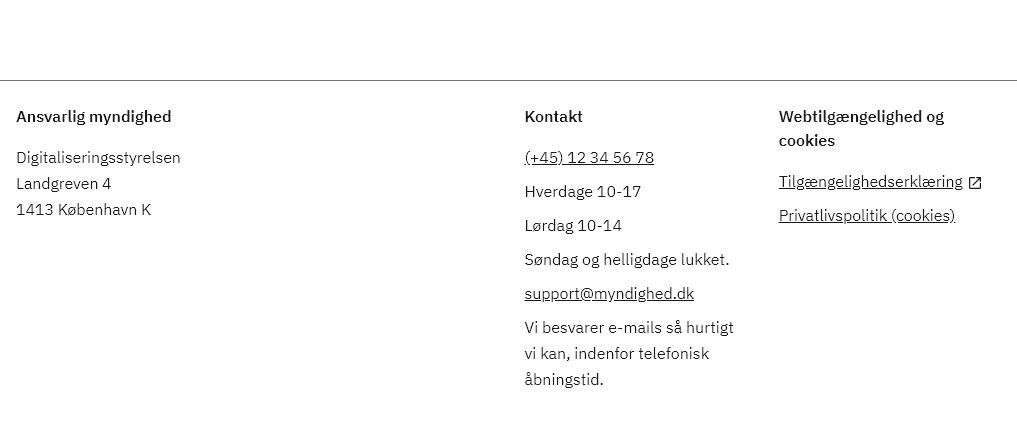
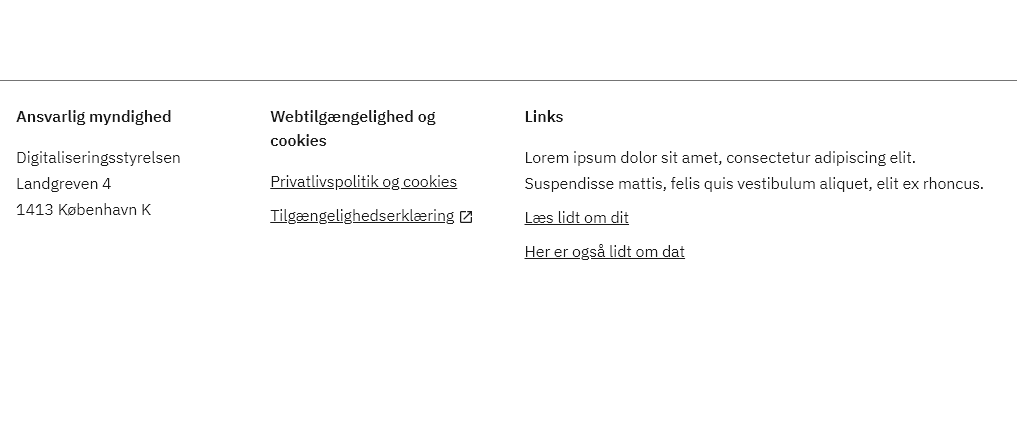
Update footer

diff --git a/_includes/code/components/footer-three-columns.html b/_includes/code/components/footer-three-columns.html
@@ -5,37 +5,14 @@
                 <div class="col-12 col-sm-12 col-md-3 footer-col ">
                     <section>
                         <div class=" align-text-left ">
-                            <h1 class="h5 mb-4" title="Ansvarlig myndighed"
-                                aria-label="Ansvarlig myndighed">Ansvarlig
-                                myndighed</h1>
+                            <h2 class="h5 mb-4">Ansvarlig myndighed</h2>
 
                             <ul class=" unstyled-list">
 
                                 <li class="">
-                                    <p>Digitaliseringsstyrelsen</p>
+                                    <p>Digitaliseringsstyrelsen<br />Landgreven 4<br/>1413 København K
+                                    </p>
                                 </li>
-
-                                <li class="">
-                                    <p>Landgreven 4</p>
-                                </li>
-
-                                <li class="">
-                                    <p>1413 København K</p>
-                                </li>
-
-                            </ul>
-
-                        </div>
-                    </section>
-                </div>
-                <div
-                    class="col-12 col-sm-12 col-md-3 footer-col d-print-none">
-                    <section>
-                        <div class=" align-text-left ">
-
-                            <ul class=" unstyled-list">
-
-                                <li class=""></li>
 
                             </ul>
 
@@ -45,34 +22,17 @@
                 <div class="col-12 col-sm-12 col-md-3 footer-col ">
                     <section>
                         <div class=" align-text-left ">
-                            <h1 class="h5 mb-4" title="Kontakt"
-                                aria-label="Kontakt">Kontakt</h1>
+                            <h2 class="h5 mb-4">Webtilgængelighed og
+                                cookies</h2>
 
                             <ul class=" mt-0 nobullet-list">
 
-                                <li class="">
-                                    <p class="mb-3"><a
-                                            class="function-link"
-                                            href="tel:004512345678">(+45)
-                                            12 34 56 78</a></p>
-                                </li>
+                                <li class=""><a href="#"
+                                        class="function-link">Privatlivspolitik
+                                        og cookies</a></li>
 
-                                <li class="">Hverdage 10-17</li>
-
-                                <li class="">Lørdag 10-14</li>
-
-                                <li class="">Søndag og helligdage lukket.
-                                </li>
-
-                                <li class="">
-                                    <p class="mt-3 mb-3"><a
-                                            class="function-link"
-                                            href="mailto:support@myndighed.dk">support@myndighed.dk</a>
-                                    </p>
-                                </li>
-
-                                <li class="">Vi besvarer e-mails så hurtigt
-                                    vi kan, indenfor telefonisk åbningstid.
+                                <li class=""><a href="#"
+                                        class="function-link icon-link">Tilgængelighedserklæring<svg class="icon-svg" focusable="false" aria-hidden="true"><use xlink:href="#open-in-new"></use></svg></a>
                                 </li>
 
                             </ul>
@@ -81,23 +41,24 @@
                     </section>
                 </div>
                 <div
-                    class="col-12 col-sm-12 col-md-3 footer-col d-print-none">
+                    class="col-12 col-sm-12 col-md-6 footer-col d-print-none">
                     <section>
                         <div class=" align-text-left ">
-                            <h1 class="h5 mb-4"
-                                title="Webtilgængelighed og cookies"
-                                aria-label="Webtilgængelighed og cookies">
-                                Webtilgængelighed og cookies</h1>
+                            <h2 class="h5 mb-4">Links</h2>
+                            <p>Lorem ipsum dolor sit amet, consectetur
+                                adipiscing elit. Suspendisse mattis, felis
+                                quis vestibulum aliquet, elit ex rhoncus.
+                            </p>
 
                             <ul class=" mt-0 nobullet-list">
 
                                 <li class=""><a href="#"
-                                        class="function-link icon-link">Tilgængelighedserklæring<svg class="icon-svg" focusable=">false" aria-hidden="true"><use xlink:href="#open-in-new"></use></svg></a>
-                                </li>
+                                        class="function-link">Læs lidt om
+                                        dit</a></li>
 
-                                <li class=""><a class="function-link"
-                                        href="#">Privatlivspolitik
-                                        (cookies)</a></li>
+                                <li class=""><a href="#"
+                                        class="function-link">Her er også
+                                        lidt om dat</a></li>
 
                             </ul>
 

diff --git a/_includes/code/components/footer-logo.html b/_includes/code/components/footer-logo.html
@@ -5,9 +5,7 @@
                 <div class="col-12 col-sm-12 col-md-3 footer-col ">
                     <section>
                         <div class=" align-text-left ">
-                            <h1 class="h5 mb-4" title="Ansvarlig myndighed"
-                                aria-label="Ansvarlig myndighed">Ansvarlig
-                                myndighed</h1>
+                            <h2 class="h5 mb-4">Ansvarlig myndighed</h2>
 
                             <ul class=" unstyled-list">
 
@@ -22,8 +20,7 @@
                 <div class="col-12 col-sm-12 col-md-3 footer-col ">
                     <section>
                         <div class=" align-text-left ">
-                            <h1 class="h5 mb-4" title="Kontakt"
-                                aria-label="Kontakt">Kontakt</h1>
+                            <h2 class="h5 mb-4">Kontakt</h2>
 
                             <ul class=" mt-0 nobullet-list">
 
@@ -44,8 +41,7 @@
                     class="col-12 col-sm-12 col-md-3 footer-col d-print-none">
                     <section>
                         <div class=" align-text-left ">
-                            <h1 class="h5 mb-4" title="Links"
-                                aria-label="Links">Links</h1>
+                            <h2 class="h5 mb-4">Links</h2>
 
                             <ul class=" mt-0 nobullet-list">
 
@@ -73,10 +69,8 @@
                     class="col-12 col-sm-12 col-md-3 footer-col d-print-none">
                     <section>
                         <div class=" align-text-left ">
-                            <h1 class="h5 mb-4"
-                                title="Webtilgængelighed og cookies"
-                                aria-label="Webtilgængelighed og cookies">
-                                Webtilgængelighed og cookies</h1>
+                            <h2 class="h5 mb-4">Webtilgængelighed og
+                                cookies</h2>
 
                             <ul class=" mt-0 nobullet-list">
 

diff --git a/_includes/code/components/footer-four-columns-language.html b/_includes/code/components/footer-four-columns-language.html
@@ -5,7 +5,7 @@
                 <div class="col-12 col-sm-12 col-md-3 footer-col ">
                     <section>
                         <div class=" align-text-left ">
-                            <h1 class="h5 mb-4">Ansvarlig myndighed</h1>
+                            <h2 class="h5 mb-4">Ansvarlig myndighed</h2>
 
                             <ul class=" unstyled-list">
 
@@ -29,7 +29,7 @@
                 <div class="col-12 col-sm-12 col-md-3 footer-col ">
                     <section>
                         <div class=" align-text-left ">
-                            <h1 class="h5 mb-4">Kontakt</h1>
+                            <h2 class="h5 mb-4">Kontakt</h2>
 
                             <ul class=" mt-0 nobullet-list">
 
@@ -50,7 +50,7 @@
                     class="col-12 col-sm-12 col-md-3 footer-col d-print-none">
                     <section>
                         <div class=" align-text-left ">
-                            <h1 class="h5 mb-4">Links</h1>
+                            <h2 class="h5 mb-4">Links</h2>
 
                             <ul class=" mt-0 nobullet-list">
 
@@ -76,8 +76,8 @@
                     class="col-12 col-sm-12 col-md-3 footer-col d-print-none">
                     <section>
                         <div class=" align-text-left ">
-                            <h1 class="h5 mb-4">Webtilgængelighed og
-                                cookies</h1>
+                            <h2 class="h5 mb-4">Webtilgængelighed og
+                                cookies</h2>
 
                             <ul class=" mt-0 nobullet-list">
 

diff --git a/_includes/code/components/footer-complex.html b/_includes/code/components/footer-complex.html
@@ -6,7 +6,7 @@
                     class="col-12 col-sm-12 col-md-3 footer-col  d-print-none">
                     <section>
                         <div class=" align-text-left ">
-                            <h1 class="h5 mb-4">Links</h1>
+                            <h2 class="h5 mb-4">Links</h2>
 
                             <ul class=" mt-0 mb-0 nobullet-list">
 
@@ -32,7 +32,7 @@
                     class="col-12 col-sm-12 col-md-3 footer-col  d-print-none">
                     <section>
                         <div class=" align-text-left ">
-                            <h1 class="h5 mb-4">Links</h1>
+                            <h2 class="h5 mb-4">Links</h2>
 
                             <ul class=" mt-0 mb-0 nobullet-list">
 
@@ -58,7 +58,7 @@
                     class="col-12 col-sm-12 col-md-3 footer-col  d-print-none">
                     <section>
                         <div class=" align-text-left ">
-                            <h1 class="h5 mb-4">Links</h1>
+                            <h2 class="h5 mb-4">Links</h2>
 
                             <ul class=" mt-0 mb-0 nobullet-list">
 
@@ -84,7 +84,7 @@
                     class="col-12 col-sm-12 col-md-3 footer-col  d-print-none">
                     <section>
                         <div class=" align-text-left ">
-                            <h1 class="h5 mb-4">Links</h1>
+                            <h2 class="h5 mb-4">Links</h2>
 
                             <ul class=" mt-0 mb-0 nobullet-list">
 

diff --git a/_includes/code/components/footer-four-columns.html b/_includes/code/components/footer-four-columns.html
@@ -5,7 +5,7 @@
                 <div class="col-12 col-sm-12 col-md-3 footer-col ">
                     <section>
                         <div class=" align-text-left ">
-                            <h1 class="h5 mb-4">Ansvarlig myndighed</h1>
+                            <h2 class="h5 mb-4">Ansvarlig myndighed</h2>
 
                             <ul class=" unstyled-list">
 
@@ -29,7 +29,7 @@
                 <div class="col-12 col-sm-12 col-md-3 footer-col ">
                     <section>
                         <div class=" align-text-left ">
-                            <h1 class="h5 mb-4">Kontakt</h1>
+                            <h2 class="h5 mb-4">Kontakt</h2>
 
                             <ul class=" mt-0 nobullet-list">
 
@@ -50,7 +50,7 @@
                     class="col-12 col-sm-12 col-md-3 footer-col d-print-none">
                     <section>
                         <div class=" align-text-left ">
-                            <h1 class="h5 mb-4">Links</h1>
+                            <h2 class="h5 mb-4">Links</h2>
 
                             <ul class=" mt-0 nobullet-list">
 
